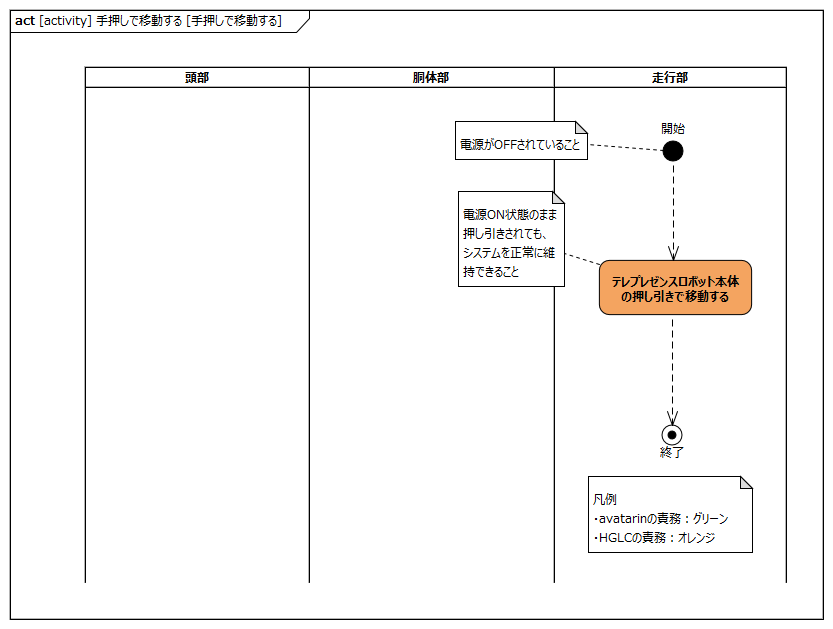
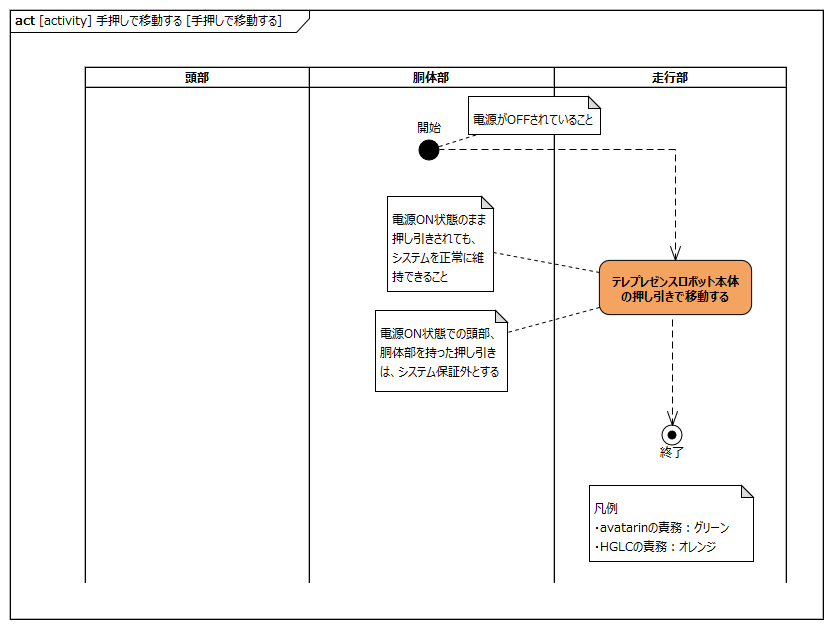
fix feedback 0225 from HGLC

diff --git a/requirements/requirement.md b/requirements/requirement.md
@@ -2,7 +2,7 @@
 title: テレプレゼンスロボット要求分析
 subtitle: L0/L1要求抽出
 author: 株式会社 豆蔵
-date: 2022年2月25日
+date: 2022年2月28日
 ---
 <!-- ↑表紙ページのための情報 -->
 
@@ -1264,10 +1264,10 @@ date: 2022年2月25日
 |SysRS-22|ソフトウェアアップデートを行う|テレプレゼンスロボットは書き換え用PCと接続・通信しソフトウェアアップデートを行う|・サービスエンジニア|REQ-042,<br/>REQ-043,<br/>REQ-044,<br/>REQ-045|
 |SysRS-24|手押しで移動する|テレプレゼンスロボットは本体を手押しすることで移動する|・アバター設置者|REQ-049|
 
+この一覧について、ユースケースごとにテレプレゼンスロボット本体を頭部、胴体部、走行部の3ブロックに分割し、各ブロックレベルで詳細化を行う。この一覧に記載されていないREQ-033, REQ-046, REQ-047は機能的な振る舞いとは異なる要求となるため、この一覧とは別に扱う（SysRS-18、SysRS-23はこれらの要求を含むユースケースで使用されている）
 
-この一覧について、ユースケースごとにテレプレゼンスロボット本体を頭部、胴体部、走行部の3ブロックに分割し、各ブロックレベルで詳細化を行う。
+尚、接触者・アバター設置者・サービスエンジニアの継承関係は下記のアクターが上位のアクターとして、それぞれのユースケースに関連していることを意味している。例えばサービスエンジニアはアバター設置者として「手押しで移動する」に関わったり、接触者として「遠隔で会話する」に関わるケースが想定される。
 
-尚、この一覧に記載されていないREQ-033, REQ-046, REQ-047は機能的な振る舞いとは異なる要求となるため、この一覧とは別に扱う（SysRS-18、SysRS-23はこれらの要求を含むユースケースで使用されている）
 
 <div style="page-break-before:always"></div>
 

diff --git a/requirements/hand_move.md b/requirements/hand_move.md
@@ -2,7 +2,7 @@
 title: テレプレゼンスロボット要求分析
 subtitle: 「SysRS-24:手押しで移動する」のL2要求抽出
 author: 株式会社 豆蔵
-date: 2022年2月18日
+date: 2022年2月28日
 ---
 <!-- ↑表紙ページのための情報 -->
 
@@ -56,5 +56,5 @@ date: 2022年2月18日
 |:---|:---|
 |右走行モータはテレプレゼンスロボット本体の押し引きで移動する|※1|
 |左走行モータはテレプレゼンスロボット本体の押し引きで移動する|※1|
-|Miimo Main ECUは電源ON時に手押し移動を検知した場合、システムを正常に維持する||
+|Miimo Main ECUは電源ON状態でテレプレゼンスロボット本体が手押し移動された場合、システムを正常に維持する||
 ※1:電源OFF状態を想定
